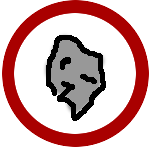
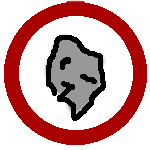
Uus varotus ja pieni animaatiomuutos voittoon

diff --git a/player.js b/player.js
@@ -34,7 +34,7 @@ function Player(lives, x, y) {
 		 	stationary: 0, 
 		 	stand: 9,
 		 	win_climb: { 
-		 		frames: [5,5,6,6,7,8,7,8], 
+		 		frames: [5,5,6,6,7], 
 		 		next: "stand",
 		 		speed: 0.5
 		 	}
